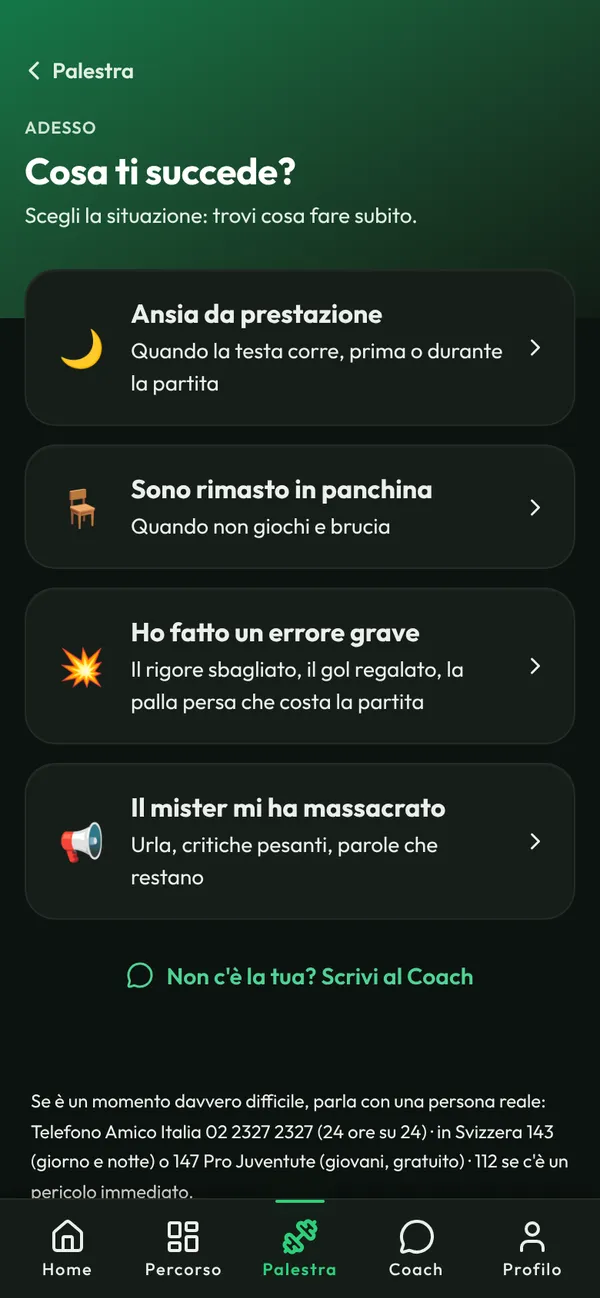
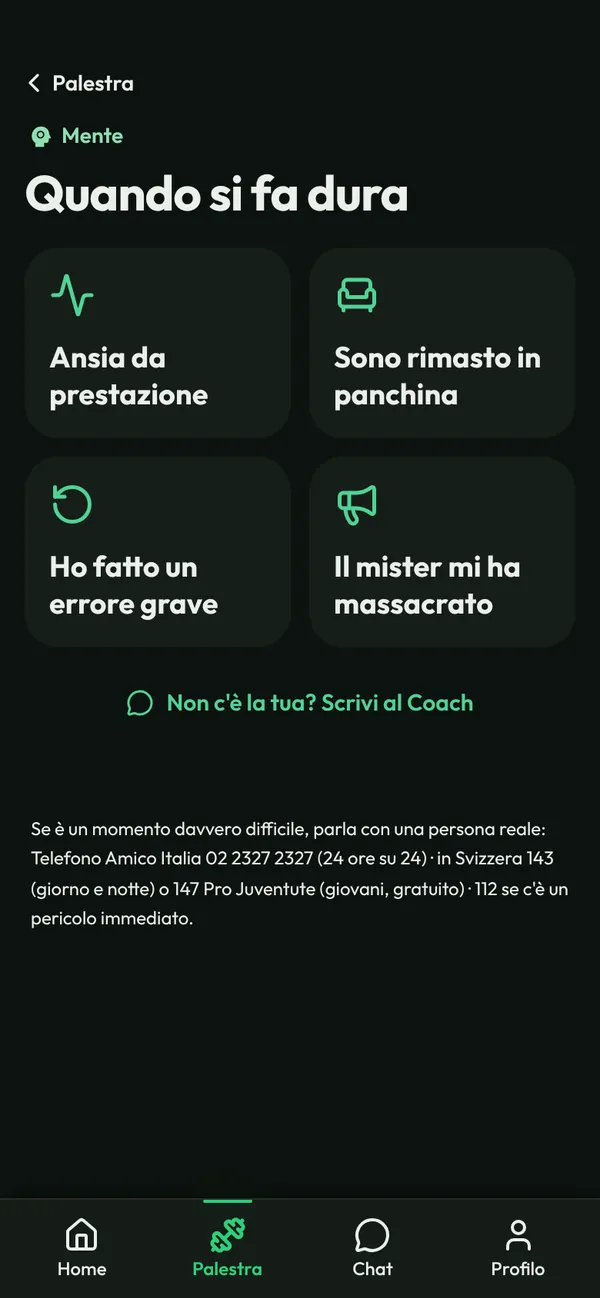
Pagina di vendita con i colori dell'app: Corpo blu e schermate nuove
Il Corpo blu (.parte-corpo) nel giro dell'app, nei cerchi e nelle storie del
Corpo e nei prezzi del Fisico; le undici schermate rifatte dal Preview con
l'account di prova (quattro tab, Mente | Corpo, stile a riquadri). Lo script
delle schermate accetta una sessione già entrata, si ferma se non è entrato e
riparte con la chat del Coach vuota.

Claude-Session: https://claude.ai/code/session_0163jMYL9g196nEYrRyFzzCe

diff --git a/components/scopri/Storie.tsx b/components/scopri/Storie.tsx
@@ -119,6 +119,9 @@ function useVisti() {
  * Un cerchio come gli «in evidenza» dei social: copertina, anello verde (grigio se già vista), nome sotto. Di solito apre la sua
  * storia; nel giro dell'app fa da linguetta (`onClick`, `attivo`: quello scelto ha l'anello, l'altro è spento).
  */
+/** Le storie del Corpo (10/11, Ste: «allinea i colori all'app»): blu come il Corpo nell'app (`.parte-corpo`), le altre verdi. */
+export const GRUPPI_CORPO = new Set(['fisico', 'perche-fisico']);
+
 export function Cerchio({ gruppo, nome, sotto, grande = false, onClick, attivo }: {
   gruppo: string; nome?: string; sotto?: string; grande?: boolean; onClick?: () => void; attivo?: boolean;
 }) {
@@ -126,13 +129,14 @@ export function Cerchio({ gruppo, nome, sotto, grande = false, onClick, attivo }
   const g = GRUPPI.find((x) => x.id === gruppo);
   if (!g) return null;
   const misura = grande ? 'h-[72px] w-[72px]' : 'h-16 w-16';
-  const anello = attivo === false ? 'bg-divider opacity-60' : visti.has(g.id) && attivo === undefined ? 'bg-divider' : 'bg-gradient-to-tr from-forest-600 via-forest-400 to-[#c9f27a]';
+  const corpo = GRUPPI_CORPO.has(g.id);
+  const anello = attivo === false ? 'bg-divider opacity-60' : visti.has(g.id) && attivo === undefined ? 'bg-divider' : `bg-gradient-to-tr from-forest-600 via-forest-400 ${corpo ? 'to-forest-200' : 'to-[#c9f27a]'}`;
   return (
     <button
       type="button"
       onClick={onClick ?? (() => apriStoria(g.id))}
       aria-pressed={attivo}
-      className="group flex w-[92px] flex-col items-center gap-1.5"
+      className={`group flex w-[92px] flex-col items-center gap-1.5 ${corpo ? 'parte-corpo' : ''}`}
       aria-label={onClick ? (nome ?? g.nome) : `Guarda: ${nome ?? g.nome}`}
     >
       <span className={`rounded-full p-[3px] transition-transform group-hover:scale-105 ${anello}`}>
@@ -192,6 +196,7 @@ function Lettore({ gruppo, inizio, cta, notaCta, onChiudi, onGruppo }: {
   gruppo: number; inizio: number; cta: string; notaCta: string; onChiudi: () => void; onGruppo: (g: number) => void;
 }) {
   const g = GRUPPI[gruppo];
+  const corpoStoria = GRUPPI_CORPO.has(g?.id);
   const schermate = g.schermate;
   const n = schermate.length;
   const [i, setI] = useState(Math.min(inizio, n - 1));
@@ -233,7 +238,7 @@ function Lettore({ gruppo, inizio, cta, notaCta, onChiudi, onGruppo }: {
       ref={box}
       tabIndex={-1}
       onKeyDown={tastiera}
-      className="relative h-[100dvh] w-full select-none overflow-hidden bg-[#0b120e] outline-none sm:h-[min(92vh,860px)] sm:w-auto sm:aspect-[9/16] sm:rounded-[28px] sm:border sm:border-white/10"
+      className={`relative h-[100dvh] w-full select-none overflow-hidden outline-none sm:h-[min(92vh,860px)] sm:w-auto sm:aspect-[9/16] sm:rounded-[28px] sm:border sm:border-white/10 ${corpoStoria ? 'parte-corpo bg-[#0b0f14]' : 'bg-[#0b120e]'}`}
       onPointerDown={() => { giu.current = Date.now(); setTenuto(true); }}
       onPointerUp={(e) => { setTenuto(false); tocco(e); }}
       onPointerLeave={() => setTenuto(false)}
@@ -246,7 +251,7 @@ function Lettore({ gruppo, inizio, cta, notaCta, onChiudi, onGruppo }: {
           className={`scopri-storia-foto absolute inset-0 h-full w-full object-cover ${k === i ? 'opacity-100' : 'opacity-0'} ${k === i && !ridotto ? 'scopri-storia-zoom' : ''}`}
           style={{ animationPlayState: ferma ? 'paused' : 'running' }} />
       ))}
-      <div className={`absolute inset-0 bg-[radial-gradient(90%_70%_at_30%_15%,rgba(26,150,96,0.5),transparent),linear-gradient(160deg,#10241a,#0b120e)] transition-opacity duration-700 ${conFoto ? 'opacity-0' : 'opacity-100'}`} aria-hidden />
+      <div className={`absolute inset-0 ${corpoStoria ? 'bg-[radial-gradient(90%_70%_at_30%_15%,rgba(47,109,171,0.45),transparent),linear-gradient(160deg,#121c28,#0b0f14)]' : 'bg-[radial-gradient(90%_70%_at_30%_15%,rgba(26,150,96,0.5),transparent),linear-gradient(160deg,#10241a,#0b120e)]'} transition-opacity duration-700 ${conFoto ? 'opacity-0' : 'opacity-100'}`} aria-hidden />
       <div className={`absolute inset-0 bg-gradient-to-t from-black/90 via-black/35 to-black/40 transition-opacity duration-700 ${conFoto ? 'opacity-100' : 'opacity-0'}`} aria-hidden />
 
       {/* Barrette */}

diff --git a/components/scopri/Tour.tsx b/components/scopri/Tour.tsx
@@ -4,7 +4,7 @@ import { useState } from 'react';
 import { Maximize2 } from 'lucide-react';
 import type { MomentoApp } from '@/lib/scopri';
 import { Dettaglio, InCampo, Schermo } from './Telefono';
-import { apriStoria, GRUPPI } from './Storie';
+import { apriStoria, GRUPPI, GRUPPI_CORPO } from './Storie';
 
 /**
  * Il giro dell'app (7/11, Ste: «è davvero troppo lungo: uno deve vedere solo le cose essenziali e poi approfondire quello
@@ -29,6 +29,8 @@ export function Tour({ parti }: { parti: ParteTour[] }) {
     </button>
   );
 
+  // Il Corpo in blu come nell'app (10/11): `.parte-corpo` rimappa i token forest-*
+  const corpo = GRUPPI_CORPO.has(parte.id);
   return (
     <div>
       {/* Testa | Corpo: basso e piatto, la fotina nel cerchio */}
@@ -43,10 +45,10 @@ export function Tour({ parti }: { parti: ParteTour[] }) {
               role="tab"
               aria-selected={scelta}
               onClick={() => scegliParte(i)}
-              className={`flex min-h-[44px] flex-1 items-center justify-center gap-2 rounded-full px-2 transition-colors ${scelta ? 'bg-forest-500/20 text-app' : 'text-muted hover:text-app'}`}
+              className={`flex min-h-[44px] flex-1 items-center justify-center gap-2 rounded-full px-2 transition-colors ${GRUPPI_CORPO.has(x.id) ? 'parte-corpo' : ''} ${scelta ? 'bg-forest-500/20 text-app' : 'text-muted hover:text-app'}`}
             >
               {foto && (
-                <span className={`shrink-0 rounded-full p-[2px] ${scelta ? 'bg-gradient-to-tr from-forest-600 via-forest-400 to-[#c9f27a]' : 'bg-divider'}`}>
+                <span className={`shrink-0 rounded-full p-[2px] ${scelta ? `bg-gradient-to-tr from-forest-600 via-forest-400 ${GRUPPI_CORPO.has(x.id) ? 'to-forest-200' : 'to-[#c9f27a]'}` : 'bg-divider'}`}>
                   {/* eslint-disable-next-line @next/next/no-img-element */}
                   <img src={foto} alt="" className={`h-7 w-7 rounded-full border-2 border-surface object-cover object-top ${scelta ? '' : 'opacity-60'}`} />
                 </span>
@@ -60,6 +62,7 @@ export function Tour({ parti }: { parti: ParteTour[] }) {
         })}
       </div>
 
+      <div className={corpo ? 'parte-corpo' : ''}>
       {/* Schermo largo: telefono a sinistra, momenti a destra */}
       <div className="mt-10 hidden items-start gap-14 lg:grid lg:grid-cols-[minmax(0,1fr)_minmax(0,1.15fr)]">
         <div className="relative">
@@ -123,6 +126,7 @@ export function Tour({ parti }: { parti: ParteTour[] }) {
           </div>
         </div>
         {parte.piede && <div className="mt-4 text-center">{parte.piede}</div>}
+      </div>
       </div>
     </div>
   );

diff --git a/lib/scopri.ts b/lib/scopri.ts
@@ -278,7 +278,7 @@ export const MOMENTI_FISICO: MomentoApp[] = [
     parte: 'Fisico',
     titolo: 'Con quello che hai',
     testo: 'Palestra, kettlebell, sbarra, un campo, un muro, o niente: il corpo libero c\'è sempre. Dici anche la fase della stagione, i giorni, il tempo che hai e le zone da proteggere.',
-    alt: 'Il setup del Fisico: gli attrezzi a disposizione, esperienza in palestra e compagno.',
+    alt: 'Il setup del Fisico: gli attrezzi a disposizione, il campo e il muro per passaggi e palleggi.',
     dettaglio: [
       'Gli esercizi sono scelti solo tra quelli che puoi fare con i tuoi attrezzi, da solo o con un compagno.',
       'La fase della stagione cambia tutto: fuori stagione, preparazione con la squadra, in stagione.',
@@ -293,7 +293,7 @@ export const MOMENTI_FISICO: MomentoApp[] = [
     parte: 'Fisico',
     titolo: 'La settimana intorno alla partita',
     testo: 'Dici quando giochi e quando ti alleni con la squadra: la settimana si prepara intorno a quei giorni, sui tuoi test.',
-    alt: 'La settimana del Fisico: due sedute, gambe il venerdì e rapidità pre partita il sabato, con la partita la domenica.',
+    alt: 'La settimana del Fisico, giorno per giorno: tre sedute, i giorni con la squadra, il riposo e la partita la domenica.',
     dettaglio: [
       'L\'AI sceglie gli allenamenti dentro le regole del preparatore; un controllo automatico verifica la settimana prima che arrivi a te.',
       'Le regole intorno alla partita: il giorno prima solo rapidità e tecnica leggera, la resistenza lontana dalle partite, le gambe del giorno dopo ridotte in base a quanto hai giocato.',
@@ -308,7 +308,7 @@ export const MOMENTI_FISICO: MomentoApp[] = [
     parte: 'Fisico',
     titolo: 'La seduta, esercizio per esercizio',
     testo: 'Serie, ripetizioni e recupero. Per ogni esercizio come si esegue, gli errori da evitare, la versione più facile e quella più difficile, e il video.',
-    alt: 'La pagina di una seduta: rapidità, tiro e tocchi di palla pre partita, con gli esercizi in ordine.',
+    alt: 'La pagina di una seduta: scatti corti e gambe, perché quel giorno, e gli esercizi in ordine.',
     dettaglio: [
       'Più di 300 esercizi, ognuno con la sua scheda: i passi dell\'esecuzione, gli errori da evitare, più facile e più difficile, la sicurezza.',
       'Video dimostrativi, e per gli esercizi di visione i video dei segnali da mettere sul telefono.',

diff --git a/app/scopri/page.tsx b/app/scopri/page.tsx
@@ -292,7 +292,7 @@ export default async function Scopri() {
             </div>
 
             <div className="scopri-schermo">
-              <div id="prezzi-fisico" className="scroll-mt-4 rounded-card border border-divider bg-app-bg p-5">
+              <div id="prezzi-fisico" className="parte-corpo scroll-mt-4 rounded-card border border-forest-400/30 bg-app-bg p-5">
                 <p className="text-overline uppercase text-forest-400">{campoAperto ? FISICO_TEASER.titolo : `${FISICO_TEASER.quando} · ${FISICO_TEASER.titolo}`}</p>
                 <p className="mt-2 text-body text-muted">{FISICO_TEASER.testo}</p>
                 <ul className="mt-4 space-y-3">

diff --git a/CLAUDE.md b/CLAUDE.md
@@ -44,7 +44,7 @@ for-you-football/
 ├── app/
 │   ├── layout.tsx                         # Root layout: PaywallGuard + ConsentReacceptSheet + GlobalCheckinWrapper + GlobalMeditationWrapper + BottomTabBar
 │   ├── page.tsx                           # Home a quattro card (20/10): pratica di oggi, allenamento di oggi (GET /api/training/oggi), le 5 azioni, la tua settimana in 7 giorni — richiede auth
-│   ├── scopri/page.tsx                    # La pagina di vendita pubblica (6/11; dal 7/11 corta e viva, tutto in una pagina, con gli schemi dei social: i cerchi «in evidenza» nella loro sezione (`Cerchio`) che aprono le storie a tutto schermo in corsivo (`components/scopri/Storie.tsx`), scene a carosello, Ste come un profilo con la griglia delle foto, bottone fisso in basso su telefono, il giro dell'app con il selettore La Testa | Il Corpo (fisico e tecnica; i pacchetti restano «Fisico») basso e piatto in `components/scopri/Tour.tsx`, «Il metodo» con tre cerchi, prezzi, domande; sezioni che entrano scorrendo, `Rivela.tsx`; dall'8/11 su telefono una sezione = una schermata con `scroll-snap`, `.scopri-schermo` in `app/globals.css`): telefono con le schermate dell'app (public/scopri/*.webp, `components/scopri/Telefono.tsx`), storia di Ste, tre passi, pacchetti con i prezzi da Stripe e le iscrizioni da app_settings con le regole della pagina prezzi (`lib/scopri.ts`, ISR 5'), domande; `/` manda qui chi non è entrato (non l'app installata). Schermate: `scripts/scopri-screenshots.mjs`
+│   ├── scopri/page.tsx                    # La pagina di vendita pubblica (6/11; dal 7/11 corta e viva, tutto in una pagina, con gli schemi dei social: i cerchi «in evidenza» nella loro sezione (`Cerchio`) che aprono le storie a tutto schermo in corsivo (`components/scopri/Storie.tsx`), scene a carosello, Ste come un profilo con la griglia delle foto, bottone fisso in basso su telefono, il giro dell'app con il selettore La Testa | Il Corpo (fisico e tecnica; i pacchetti restano «Fisico») basso e piatto in `components/scopri/Tour.tsx`, «Il metodo» con tre cerchi, prezzi, domande; sezioni che entrano scorrendo, `Rivela.tsx`; dall'8/11 su telefono una sezione = una schermata con `scroll-snap`, `.scopri-schermo` in `app/globals.css`): telefono con le schermate dell'app (public/scopri/*.webp, `components/scopri/Telefono.tsx`), storia di Ste, tre passi, pacchetti con i prezzi da Stripe e le iscrizioni da app_settings con le regole della pagina prezzi (`lib/scopri.ts`, ISR 5'), domande; `/` manda qui chi non è entrato (non l'app installata). Dal 10/11 il Corpo è blu anche qui (`.parte-corpo` su selettore e giro del Corpo, cerchi e storie del Corpo, prezzi del Fisico). Schermate: `scripts/scopri-screenshots.mjs` (`STATE` = sessione dell'account di prova, Preview)
 │   ├── login/page.tsx                     # Email + password, "Password dimenticata?", "Continua con Google" (20/10)
 │   ├── auth/callback/page.tsx             # Ritorno dall'accesso con Google: sessione → /completa-profilo (niente riga in profiles) / /riattiva / home
 │   ├── completa-profilo/page.tsx          # "Completa il profilo" per chi entra con Google: data di nascita, consensi, profilo calciatore → POST /api/register/complete

diff --git a/CHANGELOG.md b/CHANGELOG.md
@@ -2,6 +2,13 @@
 
 Storico datato delle modifiche, spostato qui da `CLAUDE.md` il 25/9/2026 (review esterna: "changelog e architettura mescolati"). `CLAUDE.md` descrive com'è fatta l'app; qui c'è come ci si è arrivati. Le voci nuove vanno in cima, con la data e il numero di PR.
 
+## 2026-11-10 — La pagina di vendita con i colori dell'app
+
+`/scopri` allineata all'app dopo il restyle dell'8-9/11:
+- Il Corpo è blu come nell'app (`.parte-corpo`): il selettore Il Corpo del giro dell'app e tutto quello che c'è sotto, i cerchi «Il Corpo» e «Perché il Corpo» e le loro storie (sfondo blu), il riquadro dei prezzi del Fisico. La Testa e i bottoni «Prova gratis» restano verdi.
+- Le undici schermate in `public/scopri/` rifatte dal Preview con l'account di prova (dati di esempio): quattro tab, Mente | Corpo, stile a riquadri, Corpo blu. Prima erano quelle con le cinque tab e il Fisico verde.
+- `scripts/scopri-screenshots.mjs`: `STATE` (sessione di Playwright già entrata) al posto di email e password, si ferma se non è entrato invece di salvare la pagina di accesso, la chat del Coach riparte vuota.
+
 ## 2026-11-10 — Fase 1c: le risposte del Gate con la domanda giusta
 
 Revisione dell'esperienza §1.5. Le risposte del Gate (`{ q1..qN }`) si accoppiavano alle domande di adesso su Notion: dopo una riscrittura il Gate 1 mostrava la risposta sul Reset sotto la domanda sulla parola, e nel Gate 4 di prima del 26/10 q2 e q3 erano voci dell'elenco della domanda 1.
